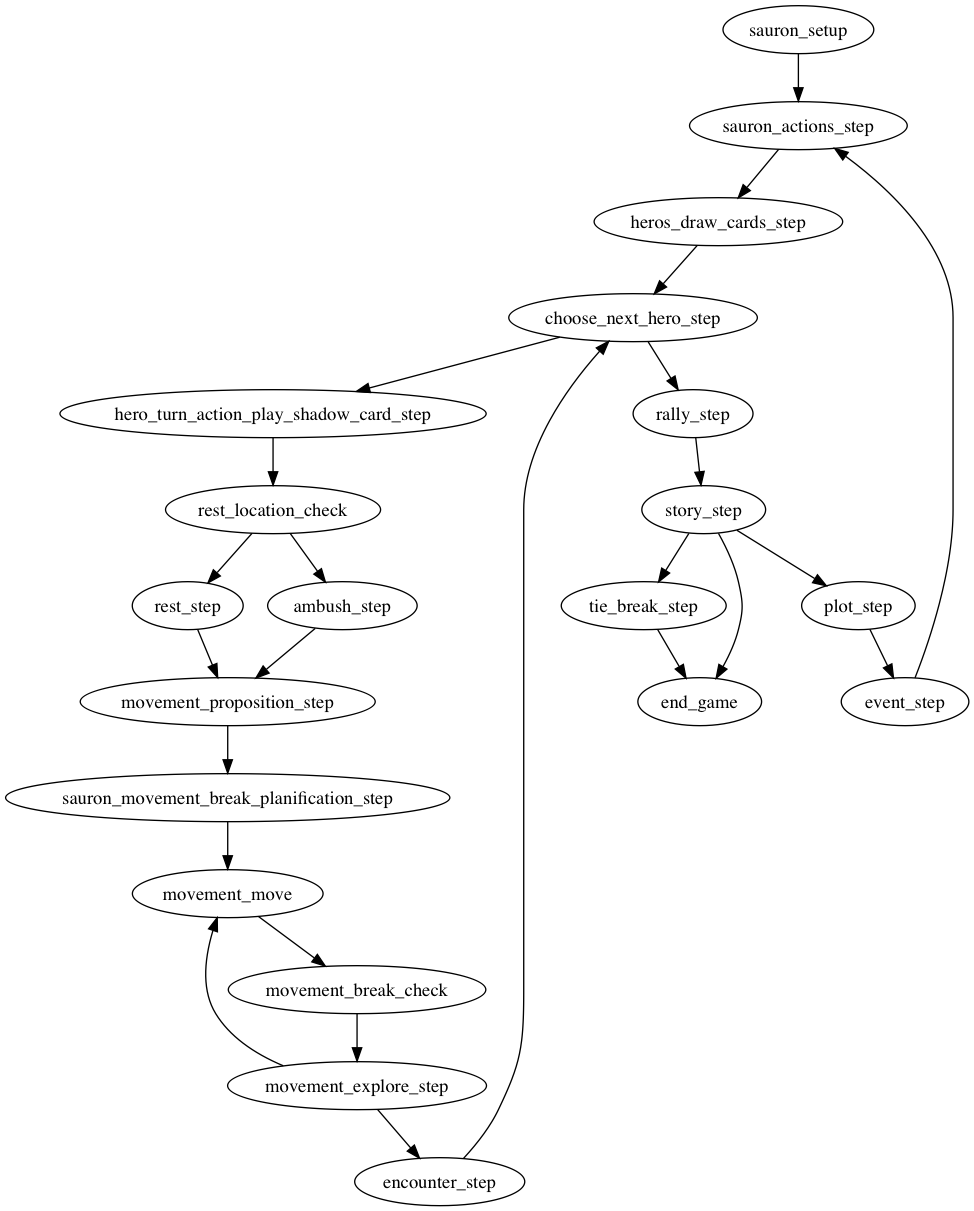
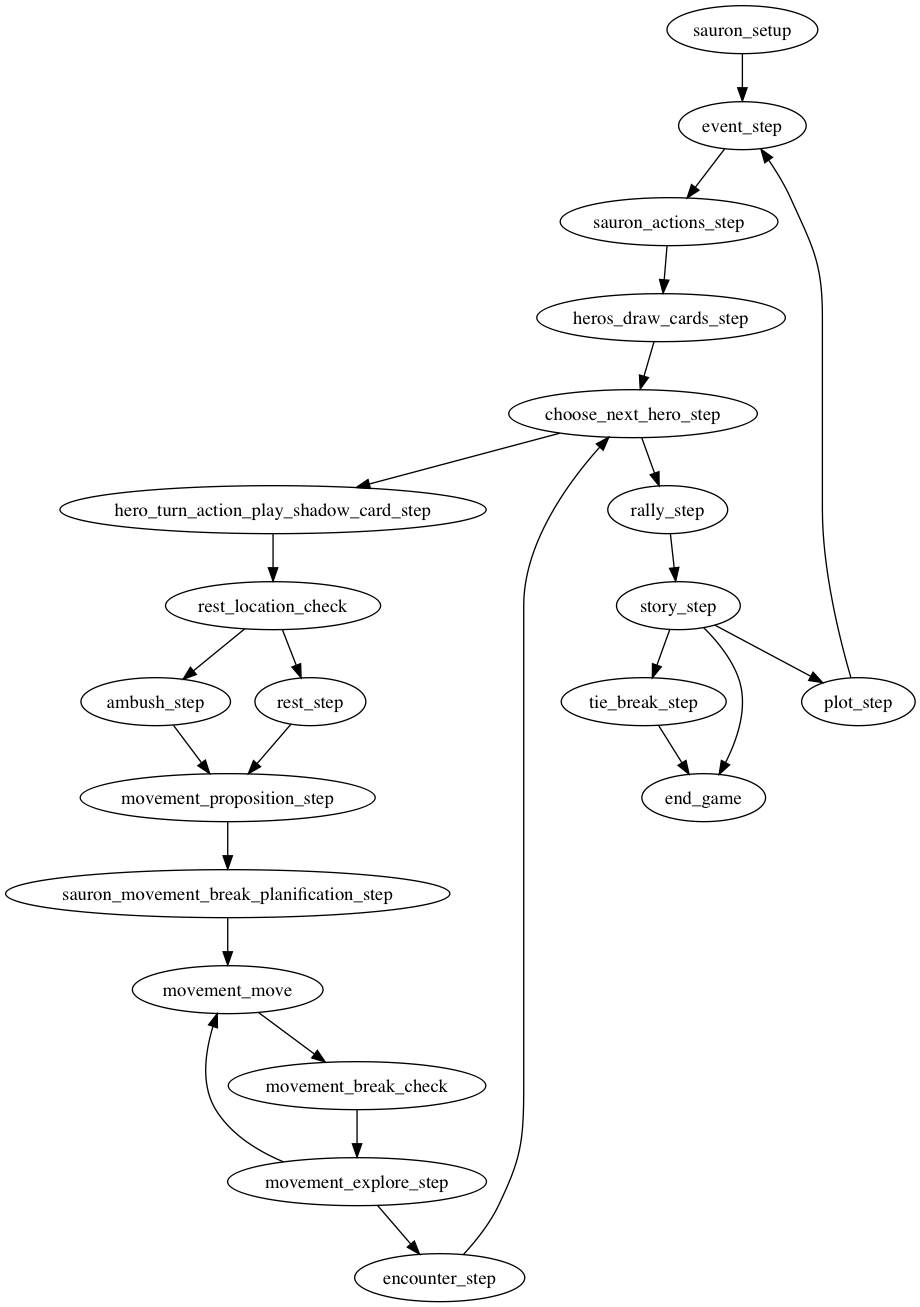
Event cards pictures added.

diff --git a/app/controllers/sauron_controller.rb b/app/controllers/sauron_controller.rb
@@ -20,19 +20,16 @@ class SauronController < ApplicationController
     GameEngine::RedirectFromBoardState.redirect(@board, @actor ){ |r| redirect_to r }
   end
 
-  # def shadow_cards
-  #   if params[:button]=='draw'
-  #     nb_cards = params[:nb_shadow_cards].to_i
-  #     cards = @board.shadow_deck.shift(nb_cards)
-  #     @actor.shadow_cards+= cards
-  #
-  #     @board.transaction do
-  #       @actor.save!
-  #       @board.save!
-  #       @board.log!( current_user, @board.sauron, :draw_shadow_cards, { count: cards.count } )
-  #     end
-  #   end
-  #   redirect_to @actor
-  # end
+  def draw_event_card
+  end
+
+  def choose_event_card
+  end
+
+  def execute_event_card
+  end
+
+  def event_card_step_finished
+  end
 
 end

diff --git a/work/split_big_cards.rb b/work/split_big_cards.rb
@@ -6,8 +6,8 @@ card_height=584
 
 card_x_decal = 2
 
-out_directory = 'sauron/shadow/'
-file = 'sauron/shadow_cards.jpg'
+out_directory = 'events/III/'
+file = 'events/III.jpg'
 
 FileUtils.mkpath out_directory
 

diff --git a/app/models/computer.rb b/app/models/computer.rb
@@ -1,0 +1,2 @@
+class Computer < Actor
+end
